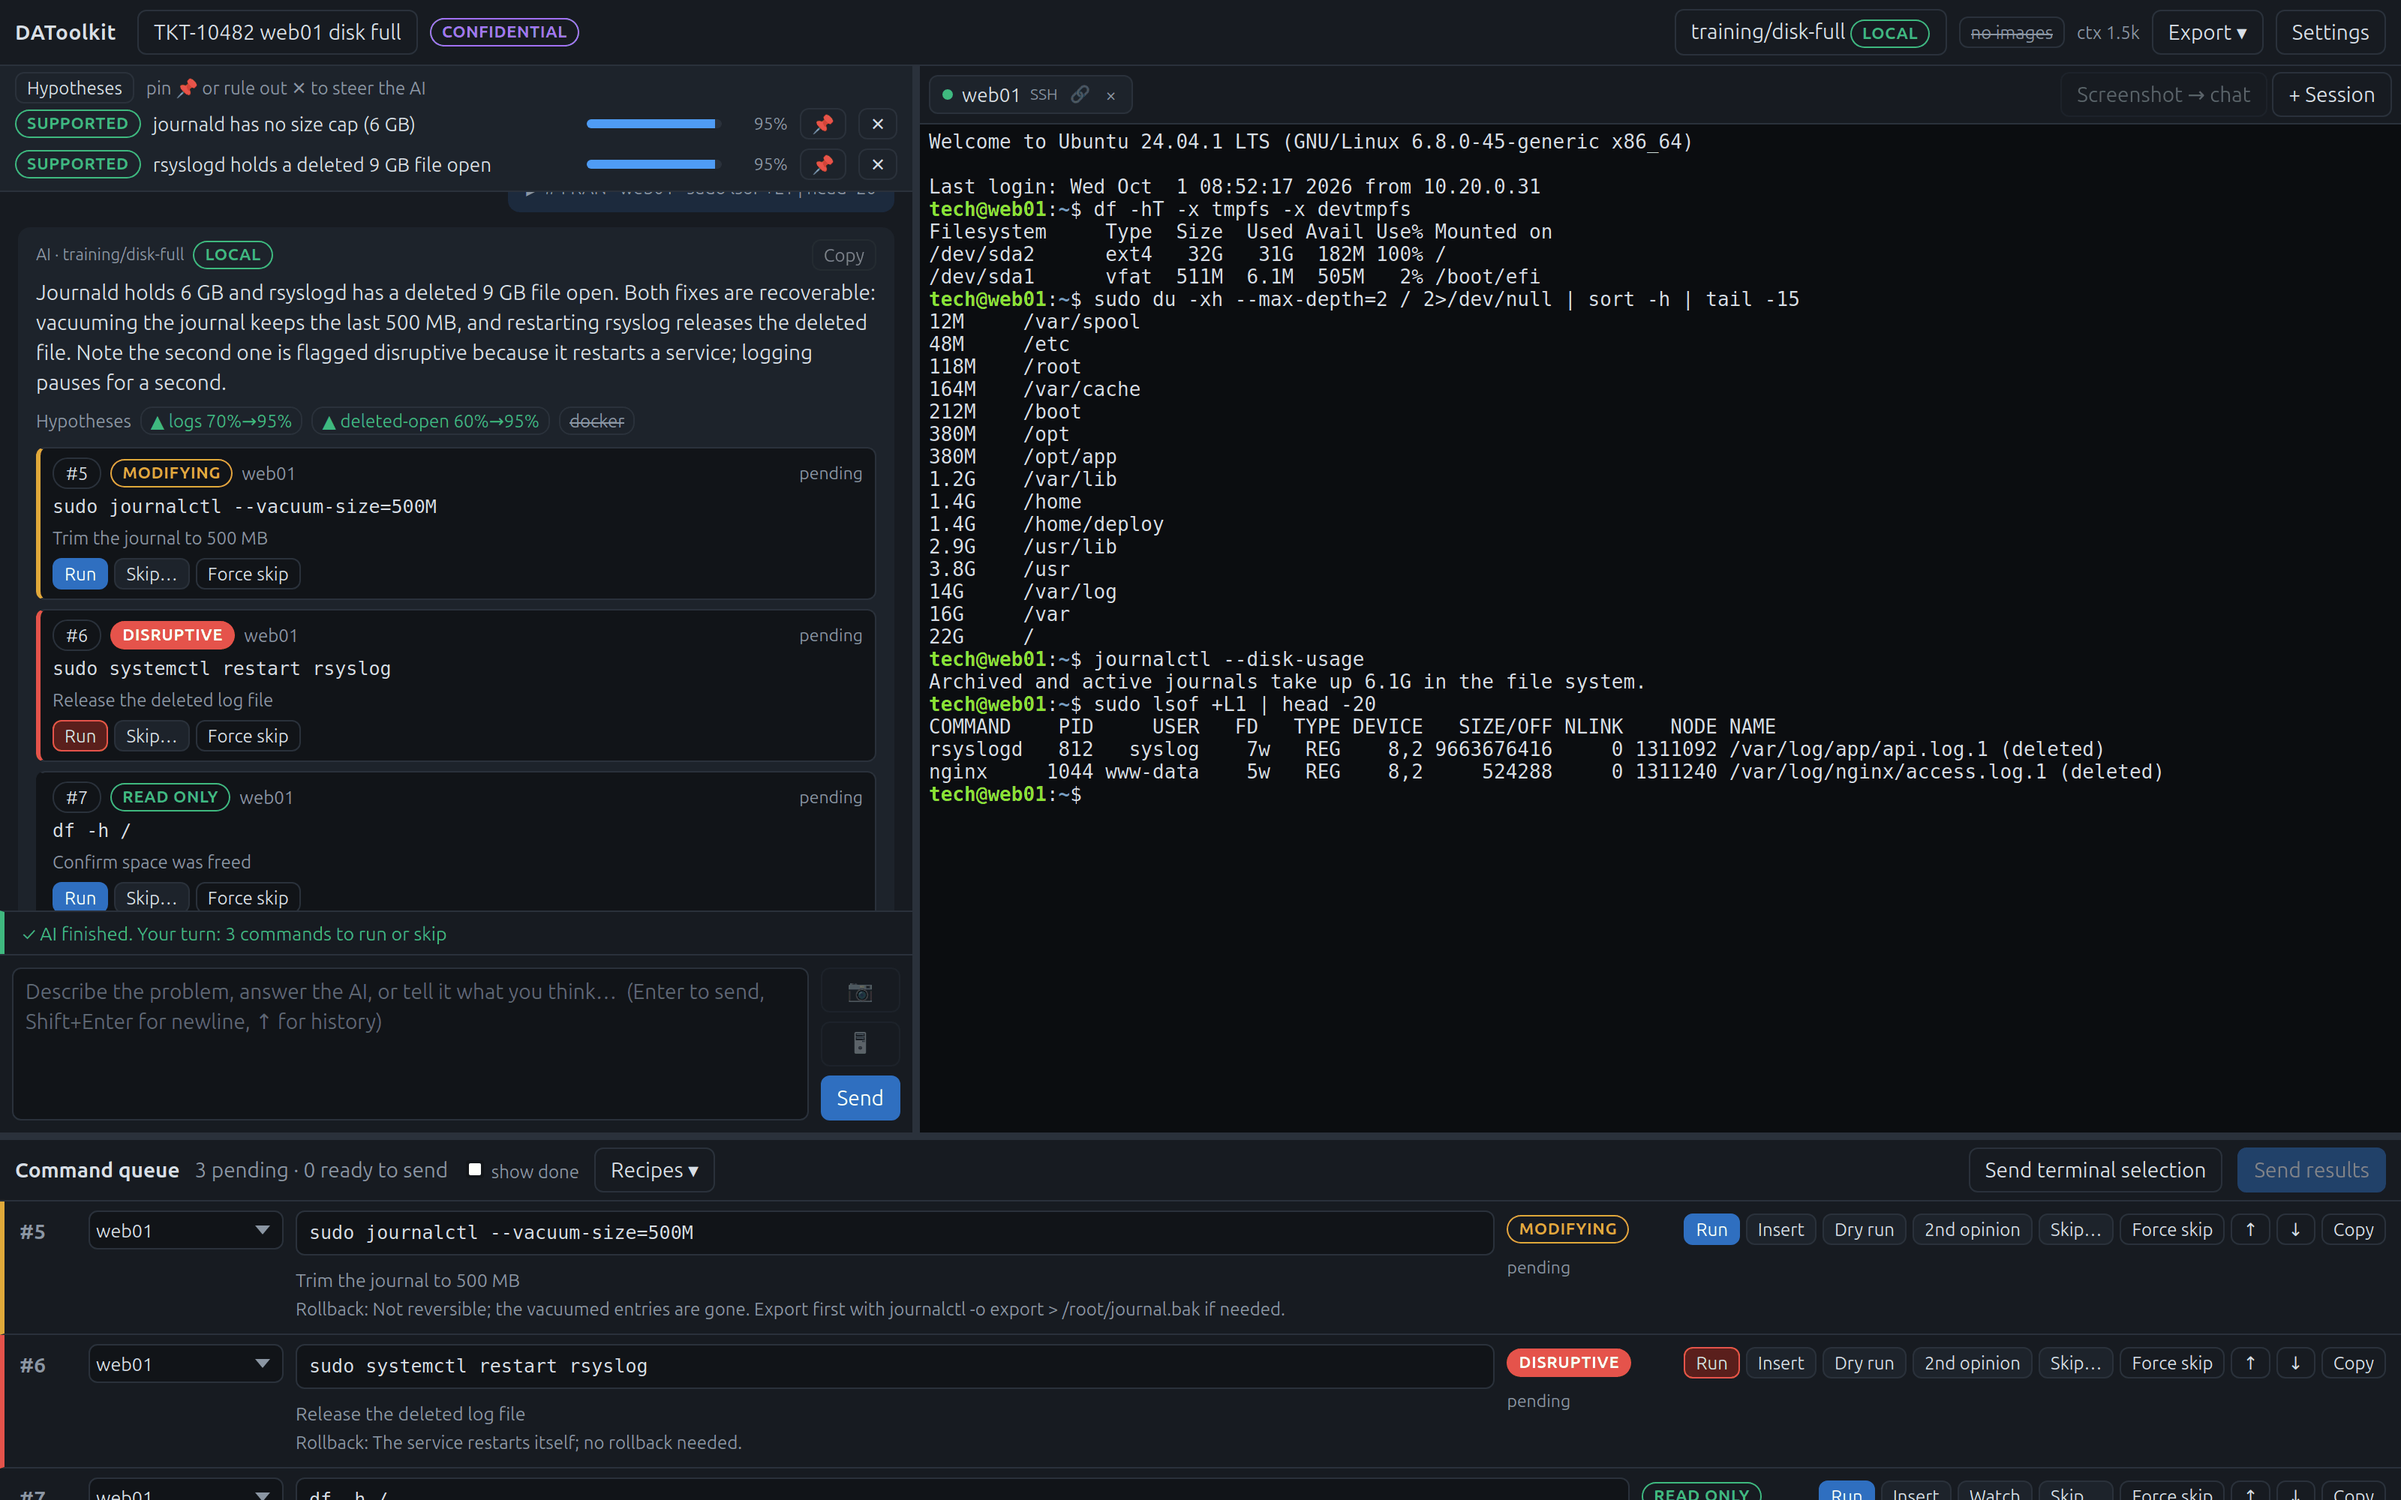
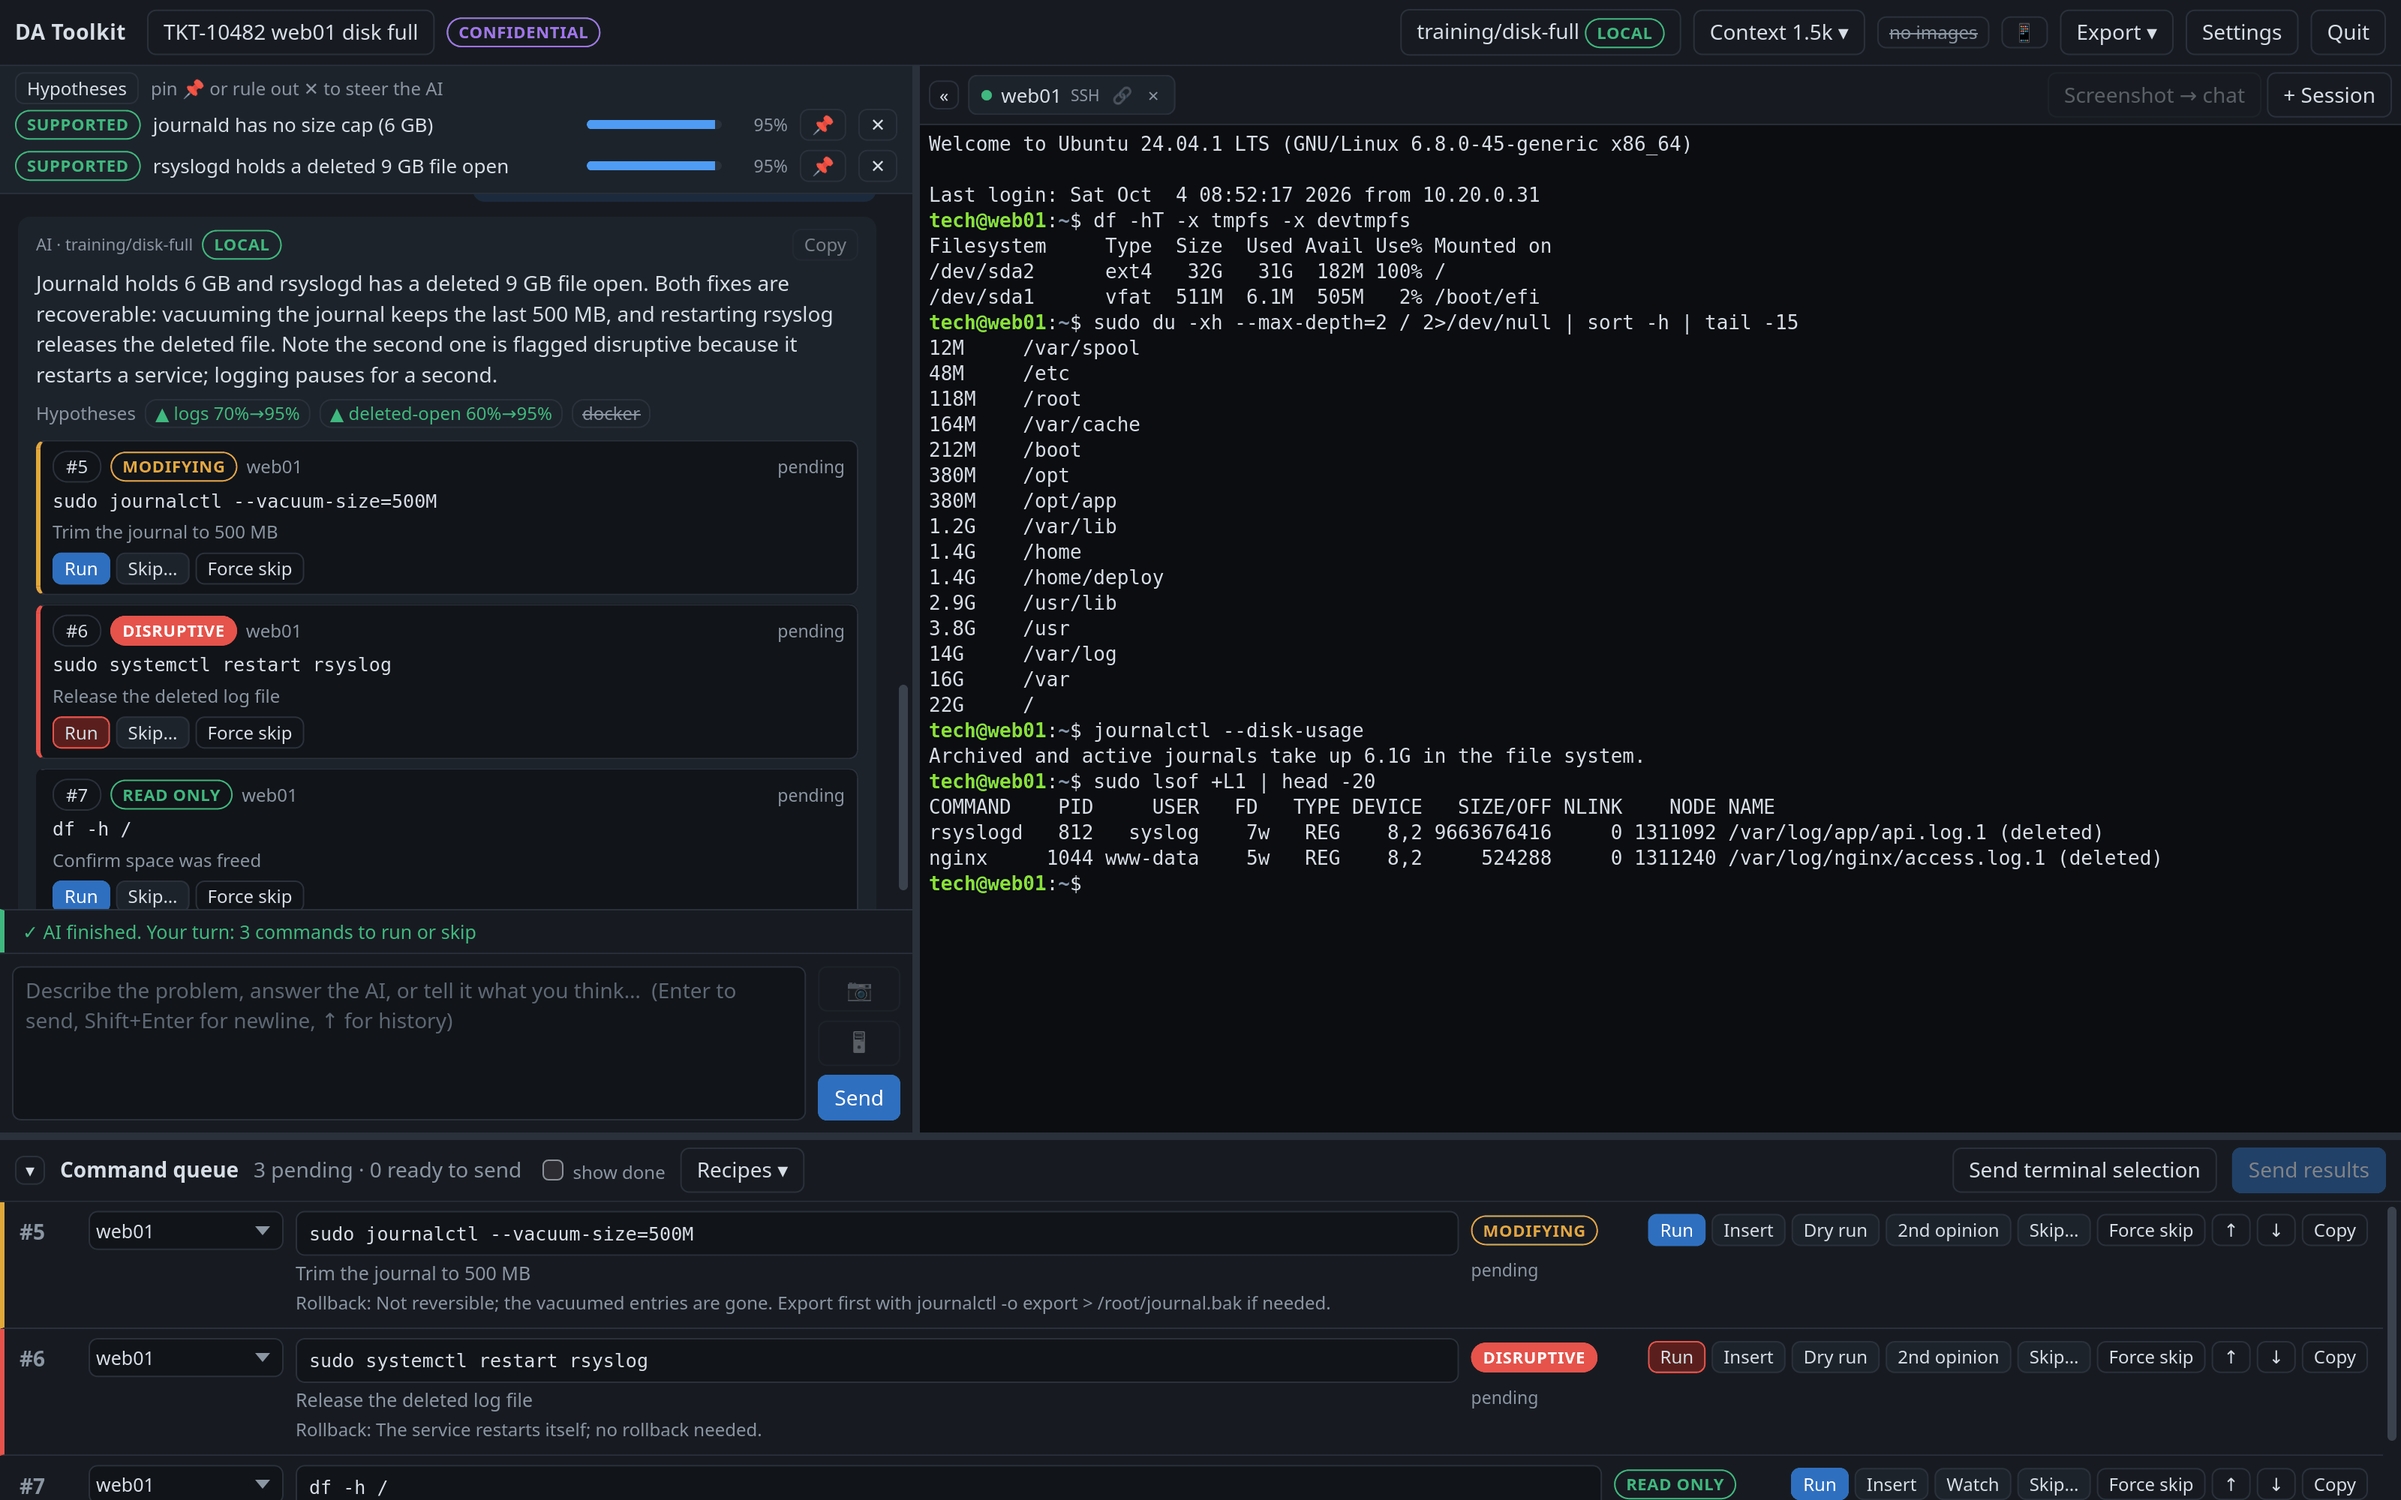
Current screenshot and a social preview; dark scrollbars in the browser
The README screenshot is retaken in the current UI (DA Toolkit, Context ▾): the same
training case on a mock web01. docs/social-preview.png is the 1280x640 image for the
repository's social preview. The roadmap drops what is done: context compaction, and
AppImages attached to releases.

The page now declares its dark colour scheme and scrollbar colours, so browsers that
drew light scrollbars and form controls on a light desktop match the theme.

diff --git a/src/datoolkit/web/style.css b/src/datoolkit/web/style.css
@@ -1,4 +1,6 @@
 :root {
+  color-scheme: dark;          /* native scrollbars and form controls match the theme */
+  scrollbar-color: #3a424e transparent;   /* browsers that still draw light scrollbars */
   --bg: #111418;
   --panel: #171b21;
   --panel-2: #1d232b;

diff --git a/README.md b/README.md
@@ -87,14 +87,12 @@ is handled.
 
 ## Roadmap
 
-- Reproducible AppImages attached to releases
 - Connectors: ConnectWise (push ticket notes and transcripts) and Confluence (pull site
   notes, push runbooks)
 - Newer guacd (1.5+) so guacd itself enforces the pinned RDP certificate; RDP session
   recording into the case timeline
 - IP/hostname pseudonymisation with local reverse mapping
 - Per-client notes library
-- Context compaction for long sessions
 
 ## Contributing and security
 
